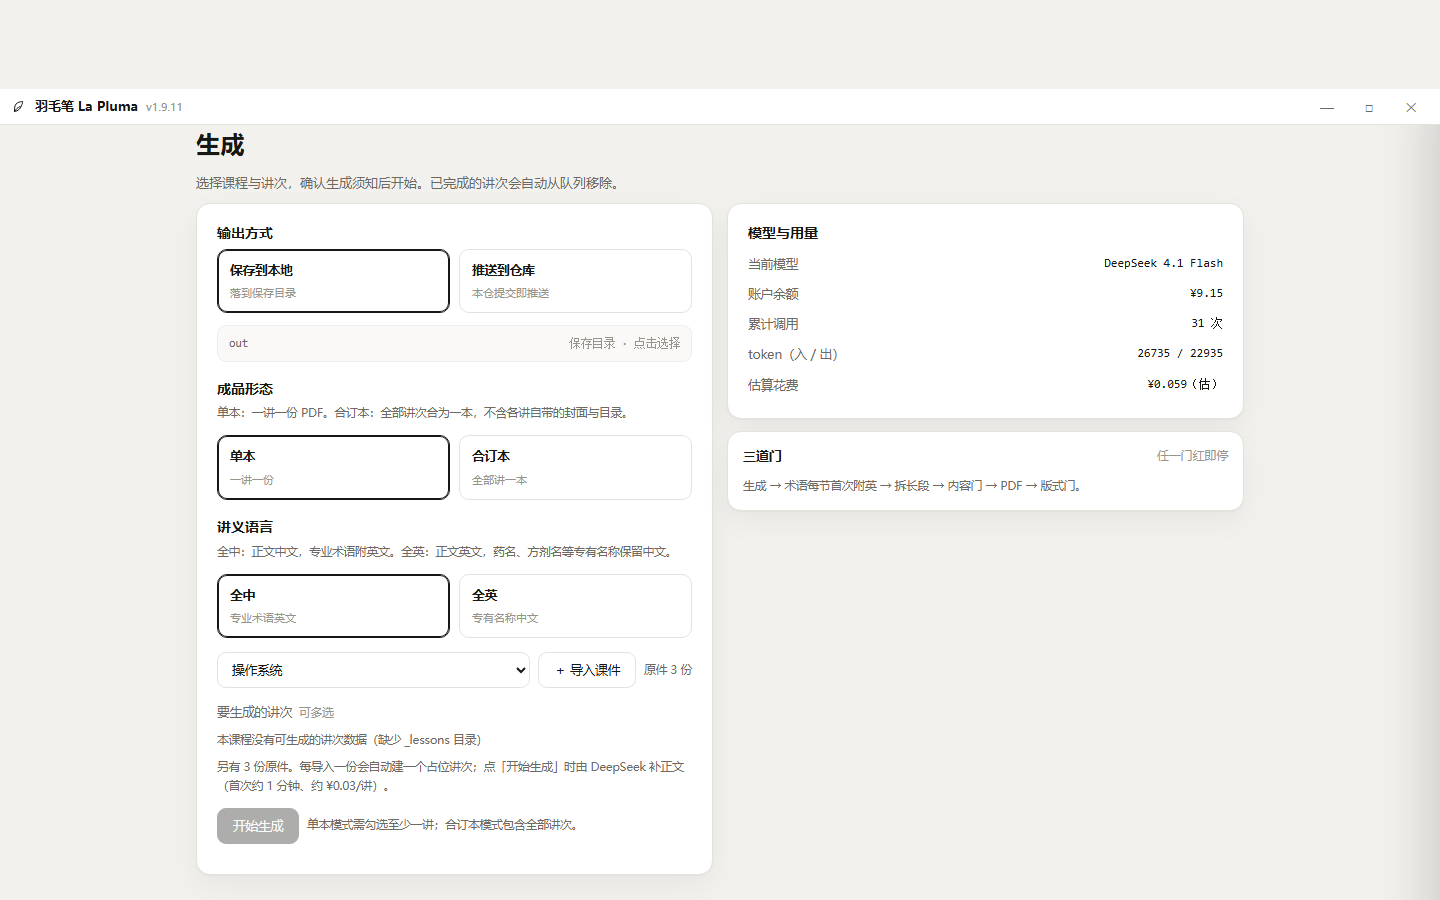
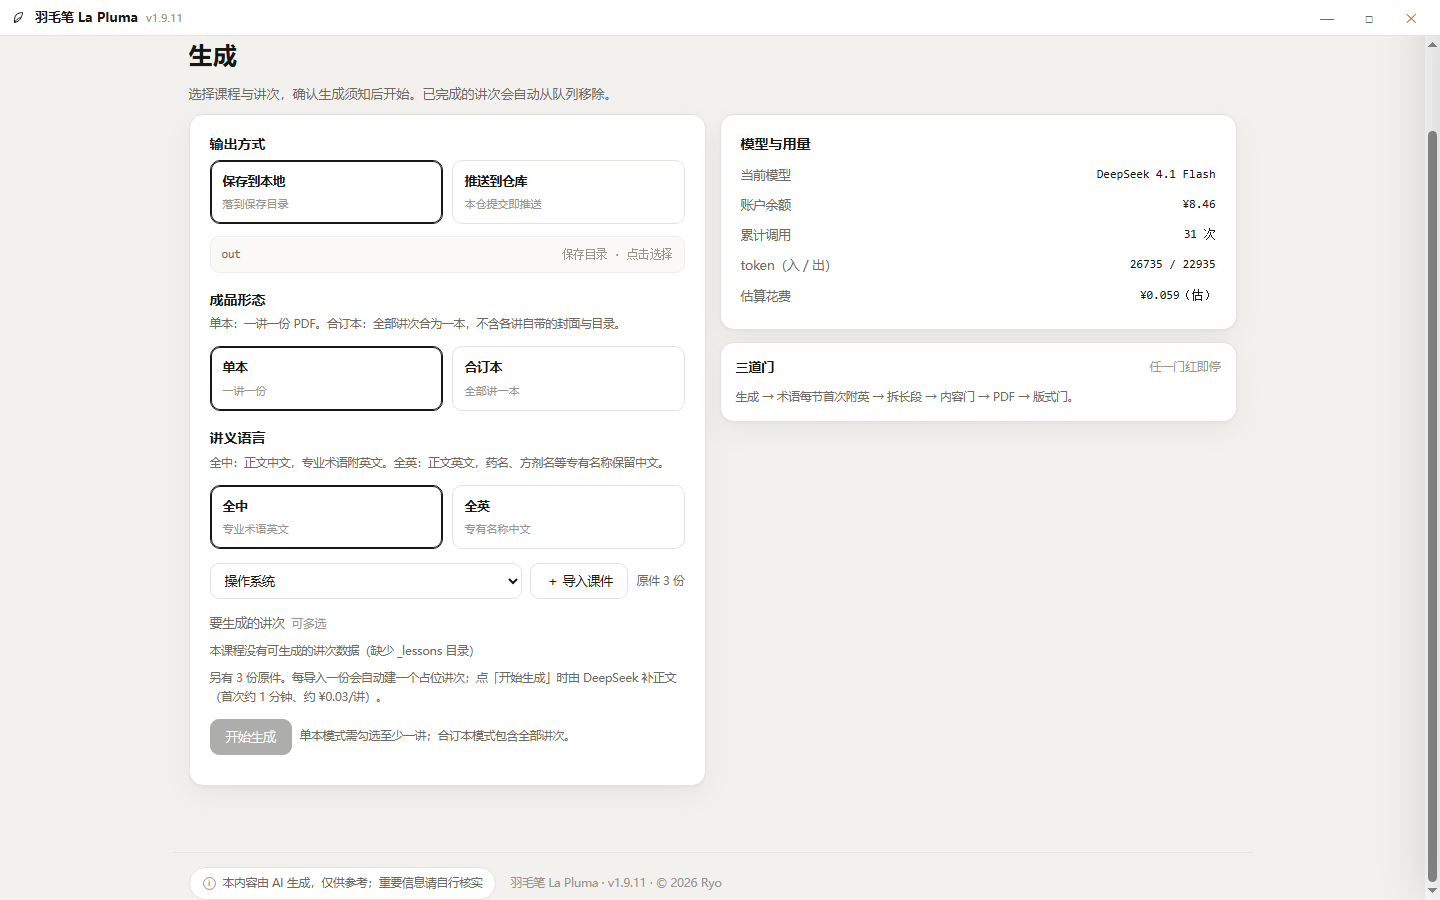
fix(window): 滚动条不再穿过标题栏（app shell 独立滚动区）

diff --git a/ui/index.html b/ui/index.html
@@ -471,6 +471,12 @@ footer{max-width:1080px;margin:26px auto 0;padding:0 16px;display:flex;align-ite
   -webkit-user-select:none;cursor:default}
 .tbar[hidden]{display:none}
  body.fs-read .tbar{display:none}   /* 阅读全屏时不占顶部 36px，退出全屏自动回来 */
+ /* 2026-11-19：窗口模式把「标题栏」与「滚动区」分开——
+    原来 body 自己滚，滚动条从窗口最顶上铺下来，会穿过标题栏、压住窗口按钮；
+    现在 #appScroll 从标题栏下方开始滚，标题栏不再需要 sticky，滚动条也到不了它上面。 */
+ body.win{height:100vh;overflow:hidden;display:flex;flex-direction:column}
+ body.win #appScroll{flex:1 1 auto;min-height:0;overflow-y:auto;overflow-x:hidden}
+ body.win .tbar{position:relative;flex:0 0 36px}
 .tbar .tb-name{display:flex;align-items:center;gap:8px;font-size:12.5px;font-weight:600;letter-spacing:.03em;color:var(--ink)}
 .tbar .tb-name svg{stroke:var(--ink)}
 .tbar .tb-ver{font-size:11px;color:var(--faint);font-weight:400;letter-spacing:0}
@@ -529,6 +535,7 @@ footer{max-width:1080px;margin:26px auto 0;padding:0 16px;display:flex;align-ite
     <button class="upd-x" id="updX" title="关掉">✕</button>
   </div>
 </div>
+<div id="appScroll">
 <div class="top">
   <div class="brand">
     <svg width="17" height="17" viewBox="0 0 24 24" fill="none" stroke-width="1.5" stroke-linecap="round">
@@ -769,6 +776,7 @@ footer{max-width:1080px;margin:26px auto 0;padding:0 16px;display:flex;align-ite
   <div class="aibadge"><i>i</i>本内容由 AI 生成，仅供参考；重要信息请自行核实</div>
   <div>羽毛笔 La Pluma · <span id="ver"></span> · © 2026 Ryo</div>
 </footer>
+</div><!-- /appScroll -->
 
 <div class="dveil" id="dveil"></div>
 <div class="dropveil" id="dropveil"><div class="box"><b>释放以导入到 <span id="dropCourse">本课程</span></b>
@@ -830,13 +838,18 @@ $('#btnTheme').onclick = () => applyTheme(rdTheme() ? 'light' : 'dark');
 $('#btnTheme2').onclick = $('#btnTheme').onclick;
 
 /* ---------- 分页 ---------- */
+function scrollApp(top){
+  const sc = document.getElementById('appScroll');
+  if(sc && document.body.classList.contains('win')) sc.scrollTop = top;
+  else window.scrollTo({top, behavior:'instant'});
+}
 function showPage(p){
   PAGE = p;
   if(p !== 'courses' && typeof findOpen === 'function' && FIND.open) findOpen(false);
   if(typeof closeDrawer === 'function') closeDrawer();   // 切导航时抽屉不留着
   document.querySelectorAll('.page').forEach(e=>e.classList.toggle('on', e.id==='page-'+p));
   document.querySelectorAll('#nav a').forEach(a=>a.classList.toggle('on', a.dataset.page===p));
-  window.scrollTo({top:0,behavior:'instant'});
+  scrollApp(0);
 }
 document.querySelectorAll('#nav a').forEach(a=>a.onclick=()=>{
   if(a.dataset.page==='read' && !RD.doc){ toast('先到课程抽屉里点一份讲义'); return; }
@@ -2409,7 +2422,7 @@ document.addEventListener('keydown', e => {
     const op = $('#outPath'); if(op) op.textContent = sp.get('savedir');
   }
   // 截图 / 回归用：?scroll=600 把页面滚到指定位置（检查标题栏是否固定）
-  if(sp.get('scroll')) setTimeout(() => window.scrollTo(0, parseInt(sp.get('scroll'), 10) || 0), 1200);
+  if(sp.get('scroll')) setTimeout(() => scrollApp(parseInt(sp.get('scroll'), 10) || 0), 1200);
   if(sp.get('lsn')) setTimeout(()=>{
     const b=document.querySelector('#lessonPick [data-lsn="'+sp.get('lsn')+'"]'); if(b) b.click();
   }, 900);
@@ -2452,6 +2465,7 @@ document.addEventListener('keydown', e => {
 (function(){
   const SNOOZE = 'pluma.updateSnooze';
   const WIN = new URLSearchParams(location.search).get('win') === '1';
+  if(WIN) document.body.classList.add('win');   // 窗口模式：标题栏固定、#appScroll 独立滚动
 
   function api(){ return (window.pywebview && window.pywebview.api) || null; }
 

diff --git a/docs/预览/README.md b/docs/预览/README.md
@@ -38,7 +38,7 @@
 | `19-多课程-62门.png` | 62 门课时的课程页实拍（压测）：3 列卡片、暂无搜索 | 「测试在课程很多的情况下 软件会怎么样」 | **已实现**（v1.8.0 加了放大镜与搜索面板，62 门不用再滚；卡片网格本身未改） |
 | `20-保存目录-选择文件夹.png` | 向导第 3 步（选保存目录）与设置页那行：输入框右侧加「📁 选择文件夹…」，默认值只显示相对路径（不再把本机 `F:\…` 印在界面上），系统对话框从软件目录打开；右下角是浏览器标签页加羽毛图标的前后对比（favicon） | 用户 2026-11-17：「底下填地址该可以选择文件夹的，默认是在羽毛笔在的地方」＋「软件图标还没有整上去」 | **已实现**（v1.9.1）· 真实界面见 `../资产/界面-向导-保存目录.png` 与 `界面-设置.png` |
 | `界面-删除讲次` / `界面-删除课程` / `界面-队列取消`（真实截图，见 `../资产/`） | 删除入口三态：① 生成页讲次区「删除」旁边的红 ×（删除模式）；② 整门课程删除弹窗（列出将移除的讲次 / 成品 / 原件，需照抄课程代号）；③ 生成队列每项的「取消」与取消后的「已取消」。另：抽屉每行、搜索面板课程行与课件行各带「删除」，最近搜索可「清除记录」 | 用户 2026-11-17：「增加删除『要生成的批次』的功能 在全选旁边 点击后 T01/T02 右上角出现红 x；下载队列和取消的按钮也是；课程里面也可以加删除按钮；检查其他地方是否还有类似的」 | **已实现**（v1.9.3）· 一律移入 `<软件目录>\_trash\<时间戳>\` 可恢复；判断入口是否齐全由 `check-deletion.ps1` 按七类对象逐项判（PRTS R102） |
-| `界面-顶栏固定`（真实截图，见 `../资产/`） | 自绘标题栏固定在窗口顶部：生成页下滚 520px 后标题栏仍在，导航已滚走；顶部窗口按钮与拖拽区域不受影响 | 用户 2026-11-19：「视窗拖不动」「顶栏在软件往下滚的时候会一起移动」 | **已实现**（v1.9.11）· 拖拽改挂 document 指针事件，实测位移 148×54；最小化 / 最大化 / 还原 / 双击标题栏实测通过；阅读全屏时标题栏收起 |
+| `界面-顶栏固定`（真实截图，见 `../资产/`） | 自绘标题栏固定在窗口顶部：生成页下滚 520px 后标题栏仍在，导航已滚走；顶部窗口按钮与拖拽区域不受影响 | 用户 2026-11-19：「视窗拖不动」「顶栏在软件往下滚的时候会一起移动」「这一条东西…突破到顶栏在软件外面」 | **已实现**（v1.9.11）· 拖拽改挂 document 指针事件，实测位移 148×54；最小化 / 最大化 / 还原 / 双击标题栏实测通过；窗口模式改成 app shell，滚动条从标题栏下方开始（截图右侧可见）；阅读全屏时标题栏收起 |
 | `界面-生成-语言档-全中` / `界面-生成-语言档-全英`（真实截图，见 `../资产/`） | 生成页新增「讲义语言」两档（全中＝专业术语英文 / 全英＝专有名称中文）；讲次芯片显示原件名（02.散剂a）与「占位」小标；选中占位时按钮旁写明 DeepSeek 补正文约 1 分钟、约 ¥0.03/讲 | 用户 2026-11-18：「导入的项目不是原本的名字（导入之后就变成了 T02）」「成品出现问题了」「增加选择输出模式 全英（专有名称中文）和全中（专业名称英文 也就是原本输出模式）」 | **已实现**（v1.9.10）· 截图取自真实界面（`?page=generate&course=药剂学&lsn=T02&savedir=out`）；占位不再直接出 PDF 由 `check-stub-guard.py` 判 4/4；合订本暂只出全中（界面与 API 同一口径） |
 
 ## 待规划需求（用户已提，尚未出图）

diff --git a/CHANGELOG.md b/CHANGELOG.md
@@ -8,6 +8,7 @@
 
 - **窗口拖不动**（用户：「视窗拖不动」）：原方案在标题栏监听 pointermove + 调 move_by，指针一离开 36px 标题栏事件就断（setPointerCapture 在 WebView2 里没兜住）。现在 pointermove / pointerup 挂到 document 上，并在事件发生时现取 pywebview.api（原来 init 时抓一次，api 没就绪就永远为 null）。实测拖拽位移 148×54 px，最小化 / 最大化 / 还原 / 双击标题栏都通过
 - **标题栏跟着滚**（用户：「顶栏在软件往下滚的时候会一起移动」）：自绘标题栏从 position:relative 改为 position:sticky；实测生成页下滚 10 格，标题栏停在窗口顶部
+- **滚动条穿过标题栏**（用户截图：右侧一条竖条顶出窗口标题栏）：原来 body 自己滚，滚动条从窗口最顶端铺下来，压住标题栏与窗口按钮。现在窗口模式改成 app shell——标题栏独立一行，#appScroll 从标题栏下方开始滚，滚动条起点在标题栏下面，不再"突破"出去
 - **阅读全屏时标题栏遮住内容**：全屏阅读给 body 加 fs-read，标题栏收起，退出全屏自动回来
 - **初始化竞态**：DOM 里还没有标题栏时不再把「已初始化」记成完成；版本号仍从 /api/bootstrap 取
 
